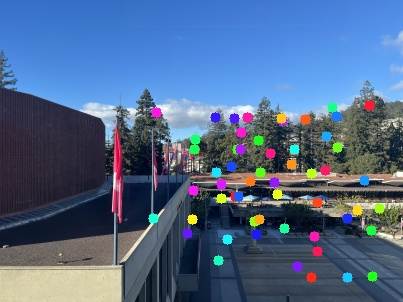
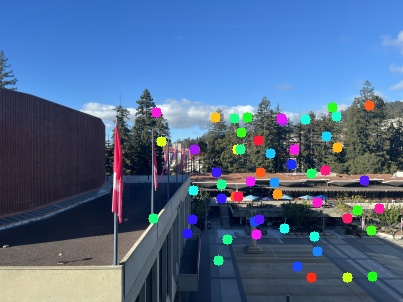
oh boy

diff --git a/p4b/B4.py b/p4b/B4.py
@@ -77,34 +77,34 @@ def auto_mosaic3(im1, im2, im3):
 # RANSAC
 if __name__ == "__main__":
     DIR = Path(__file__).resolve().parent
-    t = 3
-    IN_PATH = DIR / f"mosaic_{t}"
-    OUT_PATH = DIR / f"mosaic_{t}"
-    im1 = cv2.imread(IN_PATH / "1.JPG")
-    im2 = cv2.imread(IN_PATH / "2.JPG")
-    im3 = cv2.imread(IN_PATH / "3.JPG")
+    for t in range(3):
+        IN_PATH = DIR / f"mosaic_{t+1}"
+        OUT_PATH = DIR / f"mosaic_{t+1}"
+        im1 = cv2.imread(IN_PATH / "1.JPG")
+        im2 = cv2.imread(IN_PATH / "2.JPG")
+        im3 = cv2.imread(IN_PATH / "3.JPG")
 
-    f = 0.1
-    im1 = cv2.resize(im1, None, fx=f, fy=f, interpolation=cv2.INTER_AREA)
-    im2 = cv2.resize(im2, None, fx=f, fy=f, interpolation=cv2.INTER_AREA)
-    im3 = cv2.resize(im3, None, fx=f, fy=f, interpolation=cv2.INTER_AREA)
+        f = 0.1
+        im1 = cv2.resize(im1, None, fx=f, fy=f, interpolation=cv2.INTER_AREA)
+        im2 = cv2.resize(im2, None, fx=f, fy=f, interpolation=cv2.INTER_AREA)
+        im3 = cv2.resize(im3, None, fx=f, fy=f, interpolation=cv2.INTER_AREA)
 
-    vis_ransac = True
-    if vis_ransac:
-        pts1, pts2 = get_corrs(im1, im2, verbose=False)
-        im1cpy = im1.copy()
-        im2cpy = im2.copy()
-        for i in range(len(pts1)):
-            c = color_gen(i)
-            cv2.circle(im1cpy, center=pts1[i],
-                       radius=5, color=c, thickness=-1)
-            cv2.circle(im2cpy, center=pts2[i],
-                       radius=5, color=c, thickness=-1)
-        cv2.imwrite(OUT_PATH / "ransac_1.JPG", im1cpy)
-        cv2.imwrite(OUT_PATH / "ransac_2.JPG", im2cpy)
+        vis_ransac = True
+        if vis_ransac:
+            pts1, pts2 = get_corrs(im1, im2, verbose=False)
+            im1cpy = im1.copy()
+            im2cpy = im2.copy()
+            for i in range(len(pts1)):
+                c = color_gen(pts1[i][0] ^ pts1[i][1])
+                cv2.circle(im1cpy, center=pts1[i],
+                           radius=5, color=c, thickness=-1)
+                cv2.circle(im2cpy, center=pts2[i],
+                           radius=5, color=c, thickness=-1)
+            cv2.imwrite(OUT_PATH / "ransac_1.JPG", im1cpy)
+            cv2.imwrite(OUT_PATH / "ransac_2.JPG", im2cpy)
 
 # MOSAIC
-if __name__ == "__main__":
+if __name__ == "__main__" and False:
     DIR = Path(__file__).resolve().parent
     t = 3
     IN_PATH = DIR / f"mosaic_{t}"

diff --git a/p4b/B3.py b/p4b/B3.py
@@ -55,7 +55,7 @@ if __name__ == "__main__":
     for match in matches:
         i = match[0]
         j = match[1]
-        c = color_gen(i)
+        c = color_gen(corners1[1, i]*corners1[0, i])
         cv2.circle(im1, center=(corners1[1, i], corners1[0, i]),
                    radius=5, color=c, thickness=-1)
         cv2.circle(im2, center=(corners2[1, j], corners2[0, j]),
